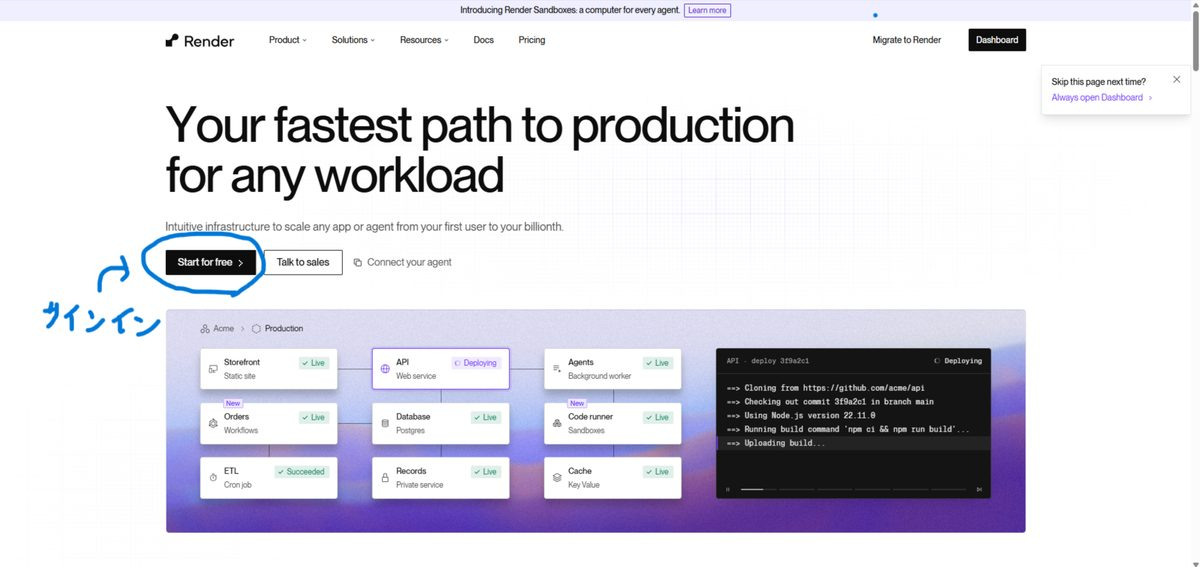
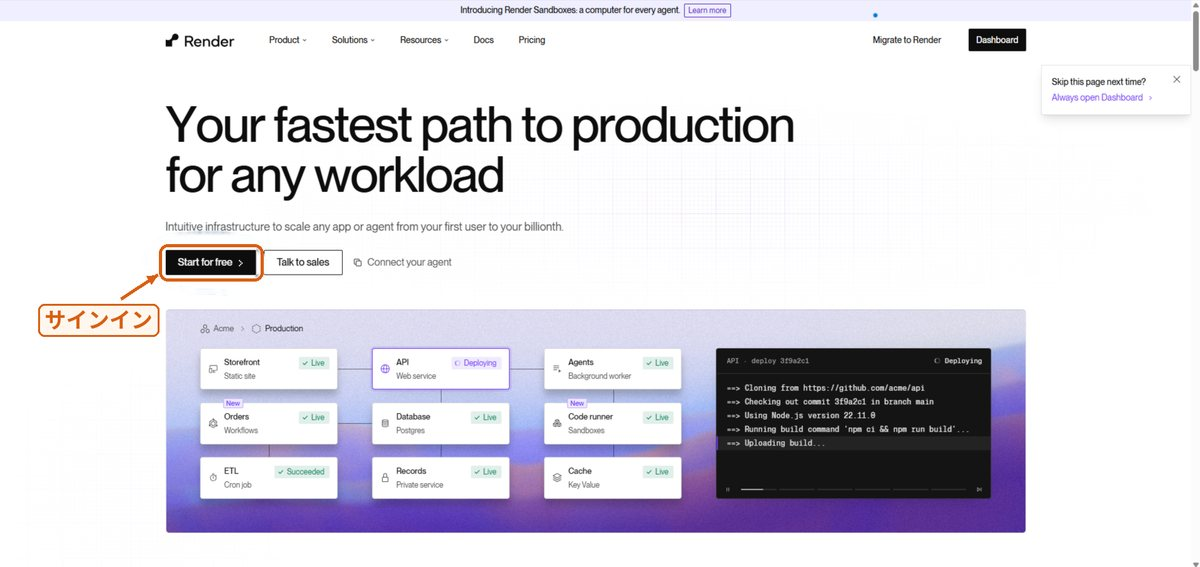
第12回: 学生の手書き注釈を、枠・矢印・活字に清書（全13枚、名前の黒塗りは維持）

Changed region(s): [[0.0308, 0.3898, 0.2158, 0.5996], [0.2158, 0.4497, 0.2467, 0.4797]]

diff --git a/ai-programming-2/week12.html b/ai-programming-2/week12.html
@@ -80,7 +80,7 @@
         <li>（任意）作品を<strong>Renderで公開</strong>し、動いたか・動かない原因を<strong>記録</strong>できる</li>
       </ul>
       <div class="lesson-tip">
-        <strong>この回の手順は、1・2限の学生が、画面つきで教えてくれた内容がもとです。</strong>画面の手書きの文字も、その学生のものです（名前は載せていません）。Renderの画面は変わりやすいので、<strong>自分の画面と見比べながら</strong>進めます。
+        <strong>この回の手順は、1・2限の学生が、画面つきで教えてくれた内容がもとです。</strong>画面のオレンジの枠・矢印・文字は、その学生の手書きの注釈を、清書したものです（名前は載せていません）。Renderの画面は変わりやすいので、<strong>自分の画面と見比べながら</strong>進めます。
       </div>
     </div>
 
@@ -264,19 +264,19 @@
               <figcaption>公式: Public Git Repositoryは「自分が属していない公開リポジトリ」向けで、自動デプロイは使えません。自分たちのリポジトリは Git Provider で（確認日 2026-11-26）。</figcaption>
             </figure>
             <figure style="margin:1.4rem 0">
-              <a href="images/week12-render-01.jpg" target="_blank" rel="noopener"><img src="images/week12-render-01.jpg" alt="Renderのトップページ。大きな見出しの下の「Start for free」のボタンが青い手書きの円で囲まれ、その横に手書きで「サインイン」と書かれている。" style="width:100%;height:auto;border:1px solid #d8d2c4;border-radius:8px" loading="lazy"></a>
-              <figcaption><strong>手順 1　Start for free</strong><br>トップページの <strong>Start for free</strong> を押す（手書き: 「サインイン」）<br><span style="font-size:0.85em">（画像を押すと、大きく開きます）</span></figcaption>
+              <a href="images/week12-render-01.jpg" target="_blank" rel="noopener"><img src="images/week12-render-01.jpg" alt="Renderのトップページ。大きな見出しの下の「Start for free」のボタンがオレンジの枠で囲まれ、その横に注釈で「サインイン」と書かれている。" style="width:100%;height:auto;border:1px solid #d8d2c4;border-radius:8px" loading="lazy"></a>
+              <figcaption><strong>手順 1　Start for free</strong><br>トップページの <strong>Start for free</strong> を押す（注釈: 「サインイン」）<br><span style="font-size:0.85em">（画像を押すと、大きく開きます）</span></figcaption>
             </figure>
             <figure style="margin:1.4rem 0">
-              <a href="images/week12-render-02.jpg" target="_blank" rel="noopener"><img src="images/week12-render-02.jpg" alt="Renderのサインイン画面。「Continue with GitHub」のボタンの右に、手書きで「GitHub以外もある」と書かれている。その下に「Sign in with another method」がある。" style="width:100%;height:auto;border:1px solid #d8d2c4;border-radius:8px" loading="lazy"></a>
-              <figcaption><strong>手順 2　サインイン</strong><br><strong>GitHub以外の方法</strong>もある（手書き）。画面の「Sign in with another method」から選ぶ。使える方法の一覧は、公式で確認できていない（未確認）<br><span style="font-size:0.85em">（画像を押すと、大きく開きます）</span></figcaption>
+              <a href="images/week12-render-02.jpg" target="_blank" rel="noopener"><img src="images/week12-render-02.jpg" alt="Renderのサインイン画面。「Continue with GitHub」のボタンの右に、注釈で「GitHub以外もある」と書かれている。その下に「Sign in with another method」がある。" style="width:100%;height:auto;border:1px solid #d8d2c4;border-radius:8px" loading="lazy"></a>
+              <figcaption><strong>手順 2　サインイン</strong><br><strong>GitHub以外の方法</strong>もある（注釈）。画面の「Sign in with another method」から選ぶ。使える方法の一覧は、公式で確認できていない（未確認）<br><span style="font-size:0.85em">（画像を押すと、大きく開きます）</span></figcaption>
             </figure>
             <figure style="margin:1.4rem 0">
-              <a href="images/week12-render-03.jpg" target="_blank" rel="noopener"><img src="images/week12-render-03.jpg" alt="Renderのダッシュボードの「Overview」画面。右上の「New」のボタンが青い手書きの円で囲まれ、矢印が付いている。" style="width:100%;height:auto;border:1px solid #d8d2c4;border-radius:8px" loading="lazy"></a>
+              <a href="images/week12-render-03.jpg" target="_blank" rel="noopener"><img src="images/week12-render-03.jpg" alt="Renderのダッシュボードの「Overview」画面。右上の「New」のボタンがオレンジの枠で囲まれ、矢印が付いている。" style="width:100%;height:auto;border:1px solid #d8d2c4;border-radius:8px" loading="lazy"></a>
               <figcaption><strong>手順 3　ダッシュボードの New</strong><br>ダッシュボード右上の <strong>New</strong> を押す<br><span style="font-size:0.85em">（画像を押すと、大きく開きます）</span></figcaption>
             </figure>
             <figure style="margin:1.4rem 0">
-              <a href="images/week12-render-04.jpg" target="_blank" rel="noopener"><img src="images/week12-render-04.jpg" alt="「New」を押したメニュー。「Static Site」「Web Service」などが並び、「Web Service」が青い手書きの円で囲まれ、矢印が付いている。" style="width:100%;height:auto;border:1px solid #d8d2c4;border-radius:8px" loading="lazy"></a>
+              <a href="images/week12-render-04.jpg" target="_blank" rel="noopener"><img src="images/week12-render-04.jpg" alt="「New」を押したメニュー。「Static Site」「Web Service」などが並び、「Web Service」がオレンジの枠で囲まれ、矢印が付いている。" style="width:100%;height:auto;border:1px solid #d8d2c4;border-radius:8px" loading="lazy"></a>
               <figcaption><strong>手順 4　Web Service</strong><br>メニューから <strong>Web Service</strong> を選ぶ<br><span style="font-size:0.85em">（画像を押すと、大きく開きます）</span></figcaption>
             </figure>
             <figure style="margin:1.4rem 0">
@@ -284,36 +284,36 @@
               <figcaption><strong>手順 5　右上にNewが無いとき</strong><br>この画面が出ることもある。<strong>Web Services</strong> のカードの「New Web Service」を押す。以降は同じ（学生のメモ。学生の画面で見た表示で、公式では確認していない）<br><span style="font-size:0.85em">（画像を押すと、大きく開きます）</span></figcaption>
             </figure>
             <figure style="margin:1.4rem 0">
-              <a href="images/week12-render-05.jpg" target="_blank" rel="noopener"><img src="images/week12-render-05.jpg" alt="「New Web Service」の画面。上の「Git Provider」「Public Git Repository」「Existing Image」のタブのうち、「Public Git Repository」が青い手書きの円で囲まれ、矢印が付いている。" style="width:100%;height:auto;border:1px solid #d8d2c4;border-radius:8px" loading="lazy"></a>
+              <a href="images/week12-render-05.jpg" target="_blank" rel="noopener"><img src="images/week12-render-05.jpg" alt="「New Web Service」の画面。上の「Git Provider」「Public Git Repository」「Existing Image」のタブのうち、「Public Git Repository」がオレンジの枠で囲まれ、矢印が付いている。" style="width:100%;height:auto;border:1px solid #d8d2c4;border-radius:8px" loading="lazy"></a>
               <figcaption><strong>手順 6　ソースを選ぶ（2通り）</strong><br>上のタブは<strong>3つ</strong>（Git Provider・Public Git Repository・Existing Image）。この授業で使うのは、次の<strong>2通り</strong>（Existing Image は使わない）。<strong>Git Provider</strong>（GitHub連携）は、<strong>自分たちのリポジトリには、公式が案内している方法</strong>で、一覧から選ぶ。<strong>Public Git Repository</strong> は「自分が属していない公開リポジトリ」向け（公式）で、学生の手順はこちら。以降の手順 7〜9 は、この方法。画像の黒い四角は、リポジトリ名を隠した部分<br><span style="font-size:0.85em">（画像を押すと、大きく開きます）</span></figcaption>
             </figure>
             <figure style="margin:1.4rem 0">
-              <a href="images/week12-render-06.jpg" target="_blank" rel="noopener"><img src="images/week12-render-06.jpg" alt="Public Git Repositoryのタブ。URLを入れる欄があり、その下に手書きで「GitHubのリンクいれる」と書かれ、欄を指す矢印がある。" style="width:100%;height:auto;border:1px solid #d8d2c4;border-radius:8px" loading="lazy"></a>
-              <figcaption><strong>手順 7　URLを入れる欄</strong><br>欄に、<strong>GitHubのリポジトリのURL</strong>を入れる（手書き: 「GitHubのリンクいれる」）<br><span style="font-size:0.85em">（画像を押すと、大きく開きます）</span></figcaption>
+              <a href="images/week12-render-06.jpg" target="_blank" rel="noopener"><img src="images/week12-render-06.jpg" alt="Public Git Repositoryのタブ。URLを入れる欄があり、その下に注釈で「GitHubのリンクいれる」と書かれ、欄を指す矢印がある。" style="width:100%;height:auto;border:1px solid #d8d2c4;border-radius:8px" loading="lazy"></a>
+              <figcaption><strong>手順 7　URLを入れる欄</strong><br>欄に、<strong>GitHubのリポジトリのURL</strong>を入れる（注釈: 「GitHubのリンクいれる」）<br><span style="font-size:0.85em">（画像を押すと、大きく開きます）</span></figcaption>
             </figure>
             <figure style="margin:1.4rem 0">
-              <a href="images/week12-render-07.jpg" target="_blank" rel="noopener"><img src="images/week12-render-07.jpg" alt="GitHubの「Code」のボタンを押して開いたメニュー。HTTPSのURLの欄が青い手書きの円で囲まれ、矢印と「これ」の手書きがある。URLは黒い四角で隠してある。" style="width:100%;height:auto;border:1px solid #d8d2c4;border-radius:8px" loading="lazy"></a>
-              <figcaption><strong>手順 8　GitHubでURLをコピー</strong><br>GitHubで <strong>Code → HTTPS</strong> のURLをコピーする（手書き: 「これ」）。名前は隠してある<br><span style="font-size:0.85em">（画像を押すと、大きく開きます）</span></figcaption>
+              <a href="images/week12-render-07.jpg" target="_blank" rel="noopener"><img src="images/week12-render-07.jpg" alt="GitHubの「Code」のボタンを押して開いたメニュー。HTTPSのURLの欄がオレンジの枠で囲まれ、矢印と「これ」の注釈がある。URLは黒い四角で隠してある。" style="width:100%;height:auto;border:1px solid #d8d2c4;border-radius:8px" loading="lazy"></a>
+              <figcaption><strong>手順 8　GitHubでURLをコピー</strong><br>GitHubで <strong>Code → HTTPS</strong> のURLをコピーする（注釈: 「これ」）。名前は隠してある<br><span style="font-size:0.85em">（画像を押すと、大きく開きます）</span></figcaption>
             </figure>
             <figure style="margin:1.4rem 0">
-              <a href="images/week12-render-08.jpg" target="_blank" rel="noopener"><img src="images/week12-render-08.jpg" alt="URLを入れた画面。右の「Connect」のボタンが青い手書きの円で囲まれ、矢印が付いている。URLは黒い四角で隠してある。" style="width:100%;height:auto;border:1px solid #d8d2c4;border-radius:8px" loading="lazy"></a>
+              <a href="images/week12-render-08.jpg" target="_blank" rel="noopener"><img src="images/week12-render-08.jpg" alt="URLを入れた画面。右の「Connect」のボタンがオレンジの枠で囲まれ、矢印が付いている。URLは黒い四角で隠してある。" style="width:100%;height:auto;border:1px solid #d8d2c4;border-radius:8px" loading="lazy"></a>
               <figcaption><strong>手順 9　Connect</strong><br><strong>Connect</strong> を押す。画面には「PR Previews and Auto-Deploy are available only for repositories configured with Blueprints」とある。この方法は<strong>手動デプロイのみ</strong>（公式）<br><span style="font-size:0.85em">（画像を押すと、大きく開きます）</span></figcaption>
             </figure>
             <figure style="margin:1.4rem 0">
-              <a href="images/week12-render-10.jpg" target="_blank" rel="noopener"><img src="images/week12-render-10.jpg" alt="設定の画面（上半分）。Name、Project、Language、Branch、Regionの欄がある。手書きで、Projectは「なし」、Languageは「Node」、Branchは「main」、Regionは「Singapore」と書かれている。リポジトリ名は黒い四角で隠してある。" style="width:100%;height:auto;border:1px solid #d8d2c4;border-radius:8px" loading="lazy"></a>
+              <a href="images/week12-render-10.jpg" target="_blank" rel="noopener"><img src="images/week12-render-10.jpg" alt="設定の画面（上半分）。Name、Project、Language、Branch、Regionの欄がある。注釈で、Projectは「なし」、Languageは「Node」、Branchは「main」、Regionは「Singapore」と書かれている。リポジトリ名は黒い四角で隠してある。" style="width:100%;height:auto;border:1px solid #d8d2c4;border-radius:8px" loading="lazy"></a>
               <figcaption><strong>手順 10　設定（1）</strong><br><strong>Name</strong>、<strong>Project</strong>=なし、<strong>Language</strong>=Node、<strong>Branch</strong>=main、<strong>Region</strong>=Singapore（学生の画面）、<strong>Root Directory</strong>=なし。Regionは自分の画面で確認する<br><span style="font-size:0.85em">（画像を押すと、大きく開きます）</span></figcaption>
             </figure>
             <figure style="margin:1.4rem 0">
-              <a href="images/week12-render-11.jpg" target="_blank" rel="noopener"><img src="images/week12-render-11.jpg" alt="設定の画面（下半分）。Root Directoryは手書きで「なし」。Start Commandの欄に手書きで「同じ文字書く（ランダム）」。Computeの欄では、月0ドルのFreeの行が青い手書きの円で囲まれ、「これえらぶ」と書かれている。初めは月7ドルの行が選ばれている。" style="width:100%;height:auto;border:1px solid #d8d2c4;border-radius:8px" loading="lazy"></a>
+              <a href="images/week12-render-11.jpg" target="_blank" rel="noopener"><img src="images/week12-render-11.jpg" alt="設定の画面（下半分）。Root Directoryは注釈で「なし」。Start Commandの欄に注釈で「同じ文字書く（ランダム）」。Computeの欄では、月0ドルのFreeの行がオレンジの枠で囲まれ、「これえらぶ」と書かれている。初めは月7ドルの行が選ばれている。" style="width:100%;height:auto;border:1px solid #d8d2c4;border-radius:8px" loading="lazy"></a>
               <figcaption><strong>手順 11　設定（2）：Compute</strong><br><strong>Compute は、$0 / month の Free を選ぶ</strong>（学生の画面では、初めは <strong>$7 / month</strong> が選ばれていた）。Build Command・Start Command の欄には、<strong>Go用の例</strong>（<code>go build …</code>／<code>./app</code>。入力例とみられる）が入っている。<strong>Nodeの作品なら、自分の作品に合わせて書く</strong>（公式の例: <code>npm install</code>／<code>npm start</code>）。学生のメモの意味は確認中（未確認）<br><span style="font-size:0.85em">（画像を押すと、大きく開きます）</span></figcaption>
             </figure>
             <figure style="margin:1.4rem 0">
-              <a href="images/week12-render-12.jpg" target="_blank" rel="noopener"><img src="images/week12-render-12.jpg" alt="設定の最後。Environment Variablesの欄は、手書きで「なし」。左下の「Deploy web service」のボタンが青い手書きの円で囲まれ、「できたらおす」と書かれている。" style="width:100%;height:auto;border:1px solid #d8d2c4;border-radius:8px" loading="lazy"></a>
-              <figcaption><strong>手順 12　環境変数と Deploy</strong><br><strong>Environment Variables</strong> は、なければ空欄でよい（学生のメモ）。APIキーなどがあれば、コードではなくここに入れる。<strong>Deploy web service</strong> を押す（手書き: 「できたらおす」）。下の金額が <strong>$7</strong> のままなら、押さずに戻る<br><span style="font-size:0.85em">（画像を押すと、大きく開きます）</span></figcaption>
+              <a href="images/week12-render-12.jpg" target="_blank" rel="noopener"><img src="images/week12-render-12.jpg" alt="設定の最後。Environment Variablesの欄は、注釈で「なし」。左下の「Deploy web service」のボタンがオレンジの枠で囲まれ、「できたらおす」と書かれている。" style="width:100%;height:auto;border:1px solid #d8d2c4;border-radius:8px" loading="lazy"></a>
+              <figcaption><strong>手順 12　環境変数と Deploy</strong><br><strong>Environment Variables</strong> は、なければ空欄でよい（学生のメモ）。APIキーなどがあれば、コードではなくここに入れる。<strong>Deploy web service</strong> を押す（注釈: 「できたらおす」）。下の金額が <strong>$7</strong> のままなら、押さずに戻る<br><span style="font-size:0.85em">（画像を押すと、大きく開きます）</span></figcaption>
             </figure>
             <figure style="margin:1.4rem 0">
-              <a href="images/week12-render-13.jpg" target="_blank" rel="noopener"><img src="images/week12-render-13.jpg" alt="デプロイが始まった画面。上に紫色の帯で「Your free instance will spin down with inactivity, which can delay requests by 50 seconds or more.」と出ている。Statusは「Building」。下のログの欄の下に、手書きで「おわったらさいごにURLが出る」と書かれている。名前の部分は黒い四角で隠してある。" style="width:100%;height:auto;border:1px solid #d8d2c4;border-radius:8px" loading="lazy"></a>
-              <figcaption><strong>手順 13　デプロイ中の画面</strong><br><strong>Deploy</strong> を押すと、この画面になる。Statusが <strong>Building</strong> の間は、ログを見て待つ（手書き: 「おわったらさいごにURLが出る」）。上の帯には「Your free instance will spin down with inactivity, which can delay requests by 50 seconds or more.」とある（無料のインスタンスは、使われないと止まり、再開に<strong>50秒以上</strong>かかることがある）<br><span style="font-size:0.85em">（画像を押すと、大きく開きます）</span></figcaption>
+              <a href="images/week12-render-13.jpg" target="_blank" rel="noopener"><img src="images/week12-render-13.jpg" alt="デプロイが始まった画面。上に紫色の帯で「Your free instance will spin down with inactivity, which can delay requests by 50 seconds or more.」と出ている。Statusは「Building」。下のログの欄の下に、注釈で「おわったらさいごにURLが出る」と書かれている。名前の部分は黒い四角で隠してある。" style="width:100%;height:auto;border:1px solid #d8d2c4;border-radius:8px" loading="lazy"></a>
+              <figcaption><strong>手順 13　デプロイ中の画面</strong><br><strong>Deploy</strong> を押すと、この画面になる。Statusが <strong>Building</strong> の間は、ログを見て待つ（注釈: 「おわったらさいごにURLが出る」）。上の帯には「Your free instance will spin down with inactivity, which can delay requests by 50 seconds or more.」とある（無料のインスタンスは、使われないと止まり、再開に<strong>50秒以上</strong>かかることがある）<br><span style="font-size:0.85em">（画像を押すと、大きく開きます）</span></figcaption>
             </figure>
             <div class="lesson-tip">
               <strong>止まる合図:</strong> ①<strong>クレジットカードの登録</strong>や<strong>Upgrade</strong>を求められた ②金額が <strong>$7/月</strong> のまま ③<strong>支払い方法が、すでに登録されている</strong>（Billing の画面で確認。登録済みだと、帯域・ビルド時間の超過分が請求されることがある。未登録だと、請求ではなく止まる。公式） ④公開してよいか迷う。この4つは、<strong>先に進まず、先生を呼びます</strong>。

diff --git a/CLAUDE.md b/CLAUDE.md
@@ -146,7 +146,7 @@ ai-programming-2/       # AI活用プログラミング基礎Ⅱ の各回詳細
   week09.html           #   第9回 進級制作とAIエージェントをつなげよう（2026-11-11作成、2026-11-12に先生の指示で3回作り直し。**現在の形**: 1限前半=①冒頭の参考の話（arXiv 2512.14012「Professional Software Developers Don't Vibe, They Control」。要旨（v2）と本文RQ2を原文で確認。「先に計画し、出力を確かめる」は本文の記述で要旨にはない。v1の要旨が同じかは未確認。就職に役立つかは論文の対象外のため断定しない）→②アンケートをチームで相談しながら書く（質問5つ。フォームの作成とClassroomでの案内は先生側、URLは載せない）→③先生が回答を読み上げる（学生の発表なし）→④先生が困りごとに答える／1限後半〜2限=ワーク（卒業進級制作か個人制作）が中心。先生が席をまわる。「AIを活かす場所の4つの型」「次の一歩のメモ・AIに計画だけ出させる」は、折りたたみの「困ったときの道具（使いたい人が使う）」に変更／2限後半=ワーク＋成果を残す。「3行」という型は廃止。図解6点＋挿絵3点（`images/week09-plan|delegate|check.jpg`。冒頭の話の「計画する・任せる・確かめる」。nano-bananaで生成、文字なし、2026-11-12）＋QR。未確認: 学生の画面のBuild modeにPlanの選択肢があるか。**冒頭の話に使わなかった候補（報道ベース・未確認）**: Collins辞書の2025年の単語、METRの2026-02-24更新、経産省の2040年就業構造推計（AI・ロボット等人材 約340万人不足、PDFは403で取得不可）、Stanford研究（22〜25歳のソフトウェア開発者の雇用が約20%減）。）
   week10.html           #   第10回 進級制作に小さな改善を加える①（2026-11-12作成、ユーザー指示「アンケート結果を共有します」→選択「困りごとの分類をもとに作る」。第9回のアンケート（Googleフォーム、22件）の「今困っていること」を分類した結果（AIへの頼み方6／コードの理解・エラー4／作品づくりの技術4／チーム・進め方3／その他2／特になし3）を、**分類と件数だけ**ページに載せた（個別の回答は載せない。分類のため「今困っていること」等の本文は読んだが、メールアドレスとタイムスタンプの列は読んでいない）。**2026-11-12に先生の指示で「プロンプトエンジニアリングからループエンジニアリングへ」の内容に書き直し**（先生の指示「第10回から、プロンプトよりもループエンジニアリングになっている。第9回で論文から軽く触れた一端を、10回でちゃんと説明する」）。1限前半=①第9回のつづき：プロンプトからループへ（15分。言葉は2026年6月ごろから使われ始めた最近のもので**定義は決まっていない**と明記。出典は解説記事4つ（Roby／ZBrain／AlphaSignal／SmartScope）で本文を照合、一次資料（Steinberger氏のX投稿・Osmani氏の原文）は未確認。「まだ要らない人が多い」という意見も載せ、AIに自動で回させる使い方は授業ではしない）→②アンケートから：1周の頼み方（10分）→③コードの理解＝人が見る場所（10分）→④今日の1周を決める（5分）。ループを回す前に決める4つ（1周の大きさ・止める条件・人が見る場所・周回数。授業用の整理で公式の分類ではない）、周回ログ、最大3周／1限後半〜2限=ワーク（先生が席をまわる。データベース・Git・サーバーなどの個別の困りごとは先生を呼ぶ）／2限後半=ワーク＋コミット・プッシュ。3つの型は授業用の整理で公式の分類ではないと明記。図解14点＋挿絵4枚＋QR。親ページ第10行（html・md）も更新。**2026-11-19に先生の提案で、1限前半①の冒頭に「バイブコーディング→計画して確かめる（この授業では「AI駆動開発」と呼ぶ。定義は決まっていない授業用の呼び方）→ループ」の文脈と図解1点を追加**（時間は①の15分の中。出典はMerriam-Webster。Karpathy氏のX投稿の原文は未確認。**同日、先生の指摘「イラストは？ 文字が多いので図解をもっと」で、挿絵4枚（`images/week10-vibe|loop|read|stop.jpg`。nano-banana、文字なし、暖色のフラット画。week09と同じ`ol.vz-steps`）と図解8点（決める4つ・アンケートの件数・頼む文の型・周回ログ・困ったときの頼り先・止める判断・コミット→プッシュ・一言メモ）を追加し、入れ子の箇条書きと長い箇条書きを図に置き換えた**。「頼む文の型」などは授業用の整理で公式の分類ではない）。**2026-11-19に先生の指摘「小さい文字が詰まって読みにくい。論文の解説図解も」で、1限前半①を小見出し（バイブコーディングとは／第9回の論文を思い出す／プロンプトより、ループ）ごとの短い箇条書きに分け、原文・出典は折りたたみ（`details.vz-more`）へ移し、論文（arXiv 2512.14012。13人観察・99人アンケート・計画して出力を確かめる）の図解1点を追加**）
   week11.html           #   第11回 先輩に聞く：卒業進級制作の最終審査に向けて（2026-11-25作成、先生の指示。1限前半=準備・3年生（システム科）の先輩のトーク約10〜15分・全体の質問タイム、1限後半=先輩が各チームを回り企画書と今の状況を見る、2限前半=Classroom配布のGoogleフォームでアウトプット（先輩に今後してもらえるとありがたいことも聞く。**フォームは先生が作る・ページにURLは載せず質問例だけ**）→アドバイスを今日の作業に変える→チームで卒業進級制作、2限後半=制作＋コミット・プッシュ。図解4点＋挿絵2枚（`images/week11-talk|visit.jpg`、nano-banana、文字なし）＋QR（`qr/week11-page.svg`）。「先輩に見せる3つ」「アドバイスを作業にする流れ」は授業用の整理。親ページの第11回の題を「進級制作に小さな改善を加える②」から差し替えた。**未確認**: 先輩の話の内容・人数・巡回の順番は先生の当日の運営次第、フォームの質問は先生の作成による）
-  week12.html           #   第12回 仕上げ①：最終調整と、Renderで公開してみよう（任意）（2026-11-26作成。**12限の学生が、Renderの使い方を手書き注釈つきのスクリーンショット13枚でチャット提案してくれたのを、先生の指示で次の木曜12限に取り入れた**。親ページの第12回「仕上げ①」の最終調整は残し、Renderで公開してみる部分は任意（Renderチーム／最終調整チームに分ける）。1限前半=GitHub PagesとRenderの違い・無料プランの制限4つ（15分アクセスがないと止まる・月750時間・ファイルが消える・いつでも再起動）・公開前の4つの点検、1限後半〜2限=画像の手順（サインイン→New→Web Service→Public Git Repository→URL→Connect→設定→**Computeを$0のFreeに選び直す（初めは$7/月）**→Deploy）、2限後半=結果のメモ。**学生の手順は Public Git Repository（URLを貼る）で、公式が自分のリポジトリに案内しているのは Git Provider（GitHub連携。既定でpushで自動デプロイ）。Public方式は手動デプロイのみ（公式）**と書き分けた。画像は `images/week12-render-01〜13.jpg`（**アカウント名・リポジトリ名を黒塗り**、全件目視確認。元の画像は git 管理外の `.playwright-mcp/render-chat/`）。公式の確認日は2026-11-26（render.com/docs/free・pricing・web-services・deploys・github）。**未確認（授業前に教員が確認）**: 手順どおり実機でデプロイできるか、Build/Start Commandの学生メモ「同じ文字書く（ランダム）」の意味、無料作成でのカード要否、サインイン方法の一覧と年齢条項、学校ネットワークでの表示。公開前にローカルでの画面確認ができず（サーバー・file://が不可）、公開後に実URLで確認した）
+  week12.html           #   第12回 仕上げ①：最終調整と、Renderで公開してみよう（任意）（2026-11-26作成。**12限の学生が、Renderの使い方を手書き注釈つきのスクリーンショット13枚でチャット提案してくれたのを、先生の指示で次の木曜12限に取り入れた**。親ページの第12回「仕上げ①」の最終調整は残し、Renderで公開してみる部分は任意（Renderチーム／最終調整チームに分ける）。1限前半=GitHub PagesとRenderの違い・無料プランの制限4つ（15分アクセスがないと止まる・月750時間・ファイルが消える・いつでも再起動）・公開前の4つの点検、1限後半〜2限=画像の手順（サインイン→New→Web Service→Public Git Repository→URL→Connect→設定→**Computeを$0のFreeに選び直す（初めは$7/月）**→Deploy）、2限後半=結果のメモ。**学生の手順は Public Git Repository（URLを貼る）で、公式が自分のリポジトリに案内しているのは Git Provider（GitHub連携。既定でpushで自動デプロイ）。Public方式は手動デプロイのみ（公式）**と書き分けた。画像は `images/week12-render-01〜13.jpg`（**アカウント名・リポジトリ名を黒塗り**、全件目視確認。元の画像は git 管理外の `.playwright-mcp/render-chat/`。**2026-11-26に、学生の手書きの注釈を消し、オレンジの枠・矢印・活字の文字に清書した**（青いインクの色を検出して消し、同じ位置に同じ文面で描き直した。作業用のスクリプトはリポジトリ外）。清書後も全13枚を目視確認した）。公式の確認日は2026-11-26（render.com/docs/free・pricing・web-services・deploys・github）。**未確認（授業前に教員が確認）**: 手順どおり実機でデプロイできるか、Build/Start Commandの学生メモ「同じ文字書く（ランダム）」の意味、無料作成でのカード要否、サインイン方法の一覧と年齢条項、学校ネットワークでの表示。公開前にローカルでの画面確認ができず（サーバー・file://が不可）、公開後に実URLで確認した）
 natural-language-dev-2.html   # 自然言語開発Ⅱ（木3・4限／後期。授業内容確定済み、週ページ順次作成中）
 natural-language-dev-2/       # 自然言語開発Ⅱ の各回詳細ページ
   week01.html           #   第1回 前期振り返り＆後期オリエンテーション

diff --git a/docs/handoff/GOAL.md b/docs/handoff/GOAL.md
@@ -175,7 +175,7 @@ updated: 2026-11-25 (セッション30)
 - [x] AI活用プログラミング基礎Ⅱ 第11回を作成（2026-11-25、授業前日、先生の指示）。親ページの第11回の題を「進級制作に小さな改善を加える②」から「先輩に聞く：卒業進級制作の最終審査に向けて」に差し替え（AskUserQuestionで決定、第12回以降は変更なし）。内容: 1限前半=準備＋3年生（システム科）の先輩のトーク10〜15分＋質問タイム、1限後半=先輩が各チームを回る、2限前半=Classroom配布のGoogleフォームでアウトプット→アドバイスを作業に変える→チームで卒業進級制作、2限後半=制作＋コミット・プッシュ。**フォームは先生が作る（ページにURLなし、質問例のみ。AskUserQuestionで決定）**。図解4点＋挿絵2枚（nano-banana。1回目は先輩が高齢の人物に描かれノートPCにロゴも入ったため、「20代前半・ロゴなし」と指定して作り直した）＋QR。week10の「次の回」リンクと次回予告も更新。**未確認**: 先輩の話の内容・巡回の順番は当日の先生の運営次第。授業後に実施結果を反映する。
 - [x] 自然言語開発Ⅱ 第11回を「Devin：クラウドで働く自律型AIエージェントを知る」で作成（2026-11-25、授業前日、ユーザー指示「34限の内容もよろしく」→「Devinについての内容にしてみて欲しい」）。AskUserQuestionで決定: ①**12限で後輩に話す3年生は34限の学生と同じ**②**学生は登録・課金・コード送信をせず、教員の実演と公式画面が本線**（規約で学習利用を断れると書かれているのは有料プランだけのため）③**第12回以降の行は変えず、授業後に先生が決める**（第13回「実装した機能のテスト」・第16回「クラウド機能を統合した成果発表」・到達目標との不一致が残る）④12限との接続は問いの形。公式確認（2026-11-25）: Devin Docs（Ask/Agent、CLI、Desktop、リリースノート）、devin.ai/pricing（Playwright描画。Free $0／Pro $20／Max $200／Teams $80、表の記号が取れず）、Platform Terms of Service 3.3.1（有料はオプトアウト可、curlで原文確認）、Claude Code／Codex／agyの公式。Opusサブエージェントのプランレビューで、規約3.3.1の見落とし・「クラウドかローカルか」の二分法の危険・先輩の話の決めつけ・変更ファイルの漏れを指摘され反映した。図解8点＋挿絵2枚（1枚目は聞き手が子どもに見えたため描き直し）＋QR。**授業前に教員が確認**: FreeでDevin Cloudが使えるか、学校PCでの導入、実演で見せる範囲。**未確認**: agyのデータ扱い、（agyのRemote Agentsは公式確認済み・個人のGoogle AI Pro/Ultraのみ）Windsurf→Devin Desktopの改名の実日付。授業後に結果を反映する。
 - [ ] **12/10（木）12限（AI活用プログラミング基礎Ⅱ 第13回の想定）を、卒業進級制作の最終審査リハーサルにする想定**（2026-11-26、先生の連絡。trigger: 先生の第13回の作成指示）。背景: 来週（12/1〜）から卒業進級制作の最終審査が始まるが、来週に審査を受けるチームはおそらくない。12/10の12限は、直近（翌日の金曜か翌週火曜）に審査を控えるチームのリハーサルにする（状況によって適宜調整）。**今は変更していない**。第13回を作るときは、親ページ（正本）の第13行「発表準備」を先に直す。確認すること: 審査の形式・時間・見る人、リハーサルを受けるチームの決め方、12/3（第12回「仕上げ①」）の扱い、授業が飛ばないか（第13回=12/10は授業が1回も飛ばない前提）。12限の第11回（2026-11-26）は「うまくいった」との報告あり（授業結果の詳細は未反映）。
-- [x] AI活用プログラミング基礎Ⅱ 第12回（12/3 木12限）に「Renderで公開してみる」を作成（2026-11-26、ユーザー指示「12限の学生からRenderの提案があった。画像の使い方を、次の木曜12限の授業で取り入れたい」）。学生のチャット（Gmailのチャット、Playwrightでユーザーがログイン済みのセッション）から、手書き注釈つきスクリーンショット13枚と短いメッセージを取得（`.playwright-mcp/render-chat/`、git管理外）。AskUserQuestionで決定: ①第12回に「公開して見せる」セクション（任意）として入れる、既存の最終調整は残す ②**画像はアカウント名・リポジトリ名を黒塗りし、手書き注釈は活かす（使うことは先生が学生に伝える。サイトに名前は載せない）**。公式確認（2026-11-26）: Free Web Serviceの制限（750時間/月、15分アクセスなしで停止し再開に約1分、ファイルは消える、再起動あり、「Do not use them for production」）、**Public Git Repository方式は自動デプロイ不可（公式が自分のリポジトリに案内しているのはGit Provider）**。計画はplan modeで承認済み。品質ゲートは次の作業（codex review・PRレビュー）。**授業前に先生が確認**: 学生の手順どおりの実機デプロイ、Build/Start Commandの意味（学生に確認）、カード登録の要否、学校ネットワークでの表示。**12/10（木）12限の最終審査リハーサル想定は別項目（上）のまま**。
+- [x] AI活用プログラミング基礎Ⅱ 第12回（12/3 木12限）に「Renderで公開してみる」を作成（2026-11-26、ユーザー指示「12限の学生からRenderの提案があった。画像の使い方を、次の木曜12限の授業で取り入れたい」）。学生のチャット（Gmailのチャット、Playwrightでユーザーがログイン済みのセッション）から、手書き注釈つきスクリーンショット13枚と短いメッセージを取得（`.playwright-mcp/render-chat/`、git管理外）。AskUserQuestionで決定: ①第12回に「公開して見せる」セクション（任意）として入れる、既存の最終調整は残す ②**画像はアカウント名・リポジトリ名を黒塗りし、手書き注釈は活かす（使うことは先生が学生に伝える。サイトに名前は載せない）**。公式確認（2026-11-26）: Free Web Serviceの制限（750時間/月、15分アクセスなしで停止し再開に約1分、ファイルは消える、再起動あり、「Do not use them for production」）、**Public Git Repository方式は自動デプロイ不可（公式が自分のリポジトリに案内しているのはGit Provider）**。計画はplan modeで承認済み。品質ゲートは次の作業（codex review・PRレビュー）。**画像の清書（2026-11-26、先生の依頼）**: 手書きの枠・矢印・文字を、オレンジの枠・矢印・活字に描き直した（13枚。試作3枚を先生が確認して全体に広げた。学生には、清書したことも伝える）。**授業前に先生が確認**: 学生の手順どおりの実機デプロイ、Build/Start Commandの意味（学生に確認）、カード登録の要否、学校ネットワークでの表示。**12/10（木）12限の最終審査リハーサル想定は別項目（上）のまま**。
 
 ## 🔄 中断点（in-flight）
 なし
